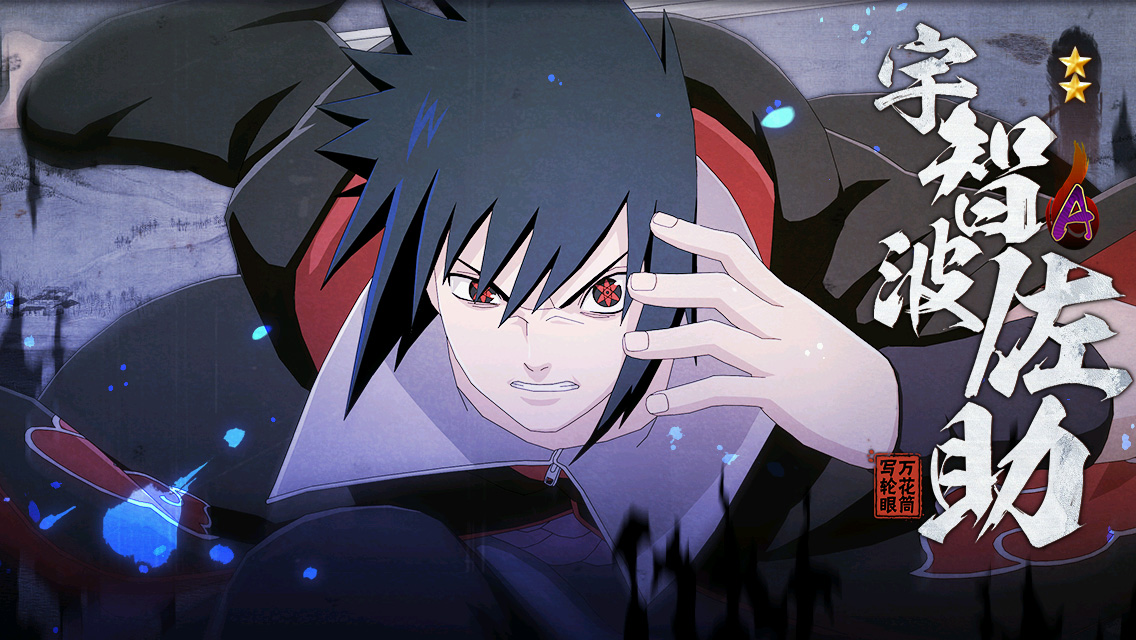
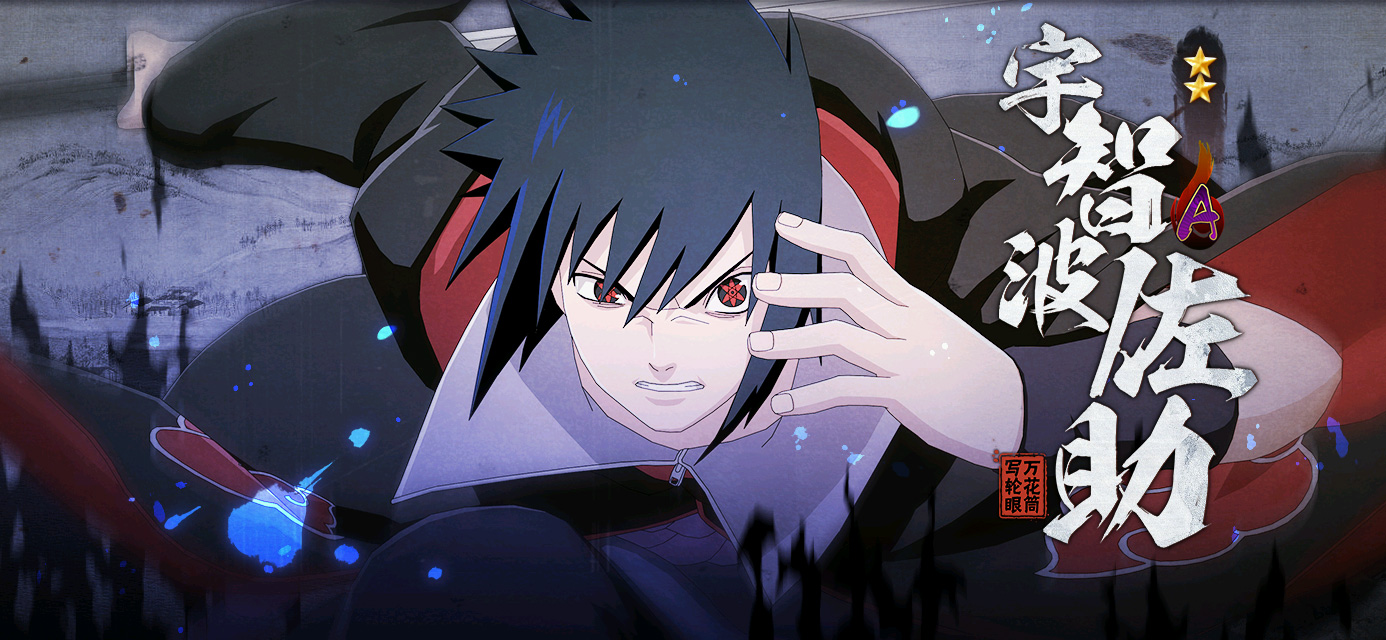
微调
新版分享图改为bg写法

diff --git a/ninjashare.html b/ninjashare.html
@@ -134,7 +134,7 @@ function fastmode(){
 <div class="container_box_scroll">
 <div class="container">
     <ul class="thepic" id="thepic">
-        <li class="bg_share bg_ninjashare2"><img src="images/90100001_BG.jpg" alt="新版分享图"></li>
+        <li class="bg_share bg_ninjashare2" style="background-image:url(images/90100001_BG.jpg)"></li>
         <li class="bg_share bg_ninjashare" style="background-image:url(images/bg_share.png)"></li>
         <li class="bg_share bg_zhanlishare" style="background-image:url(images/bg_ShareRoleInfoBgAtlas1.png)"></li>
         <!--忍者立绘-->
